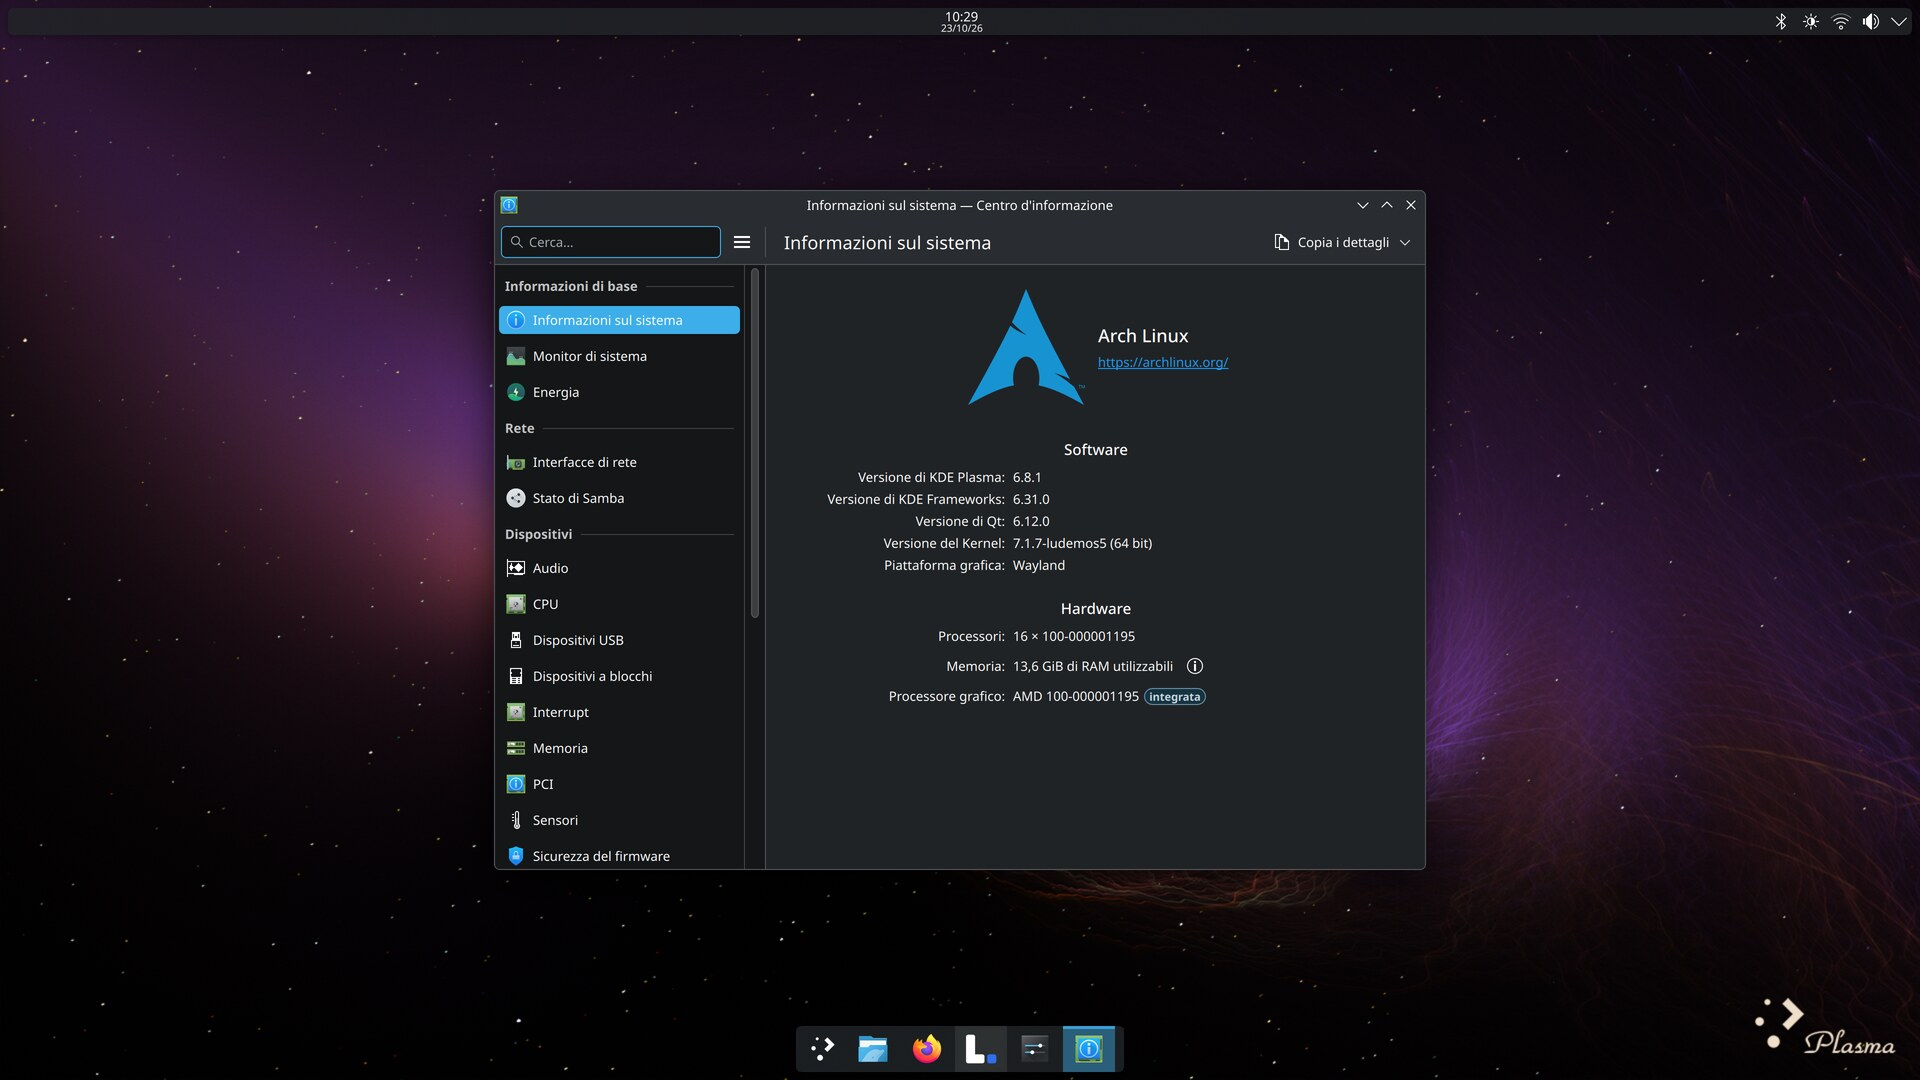
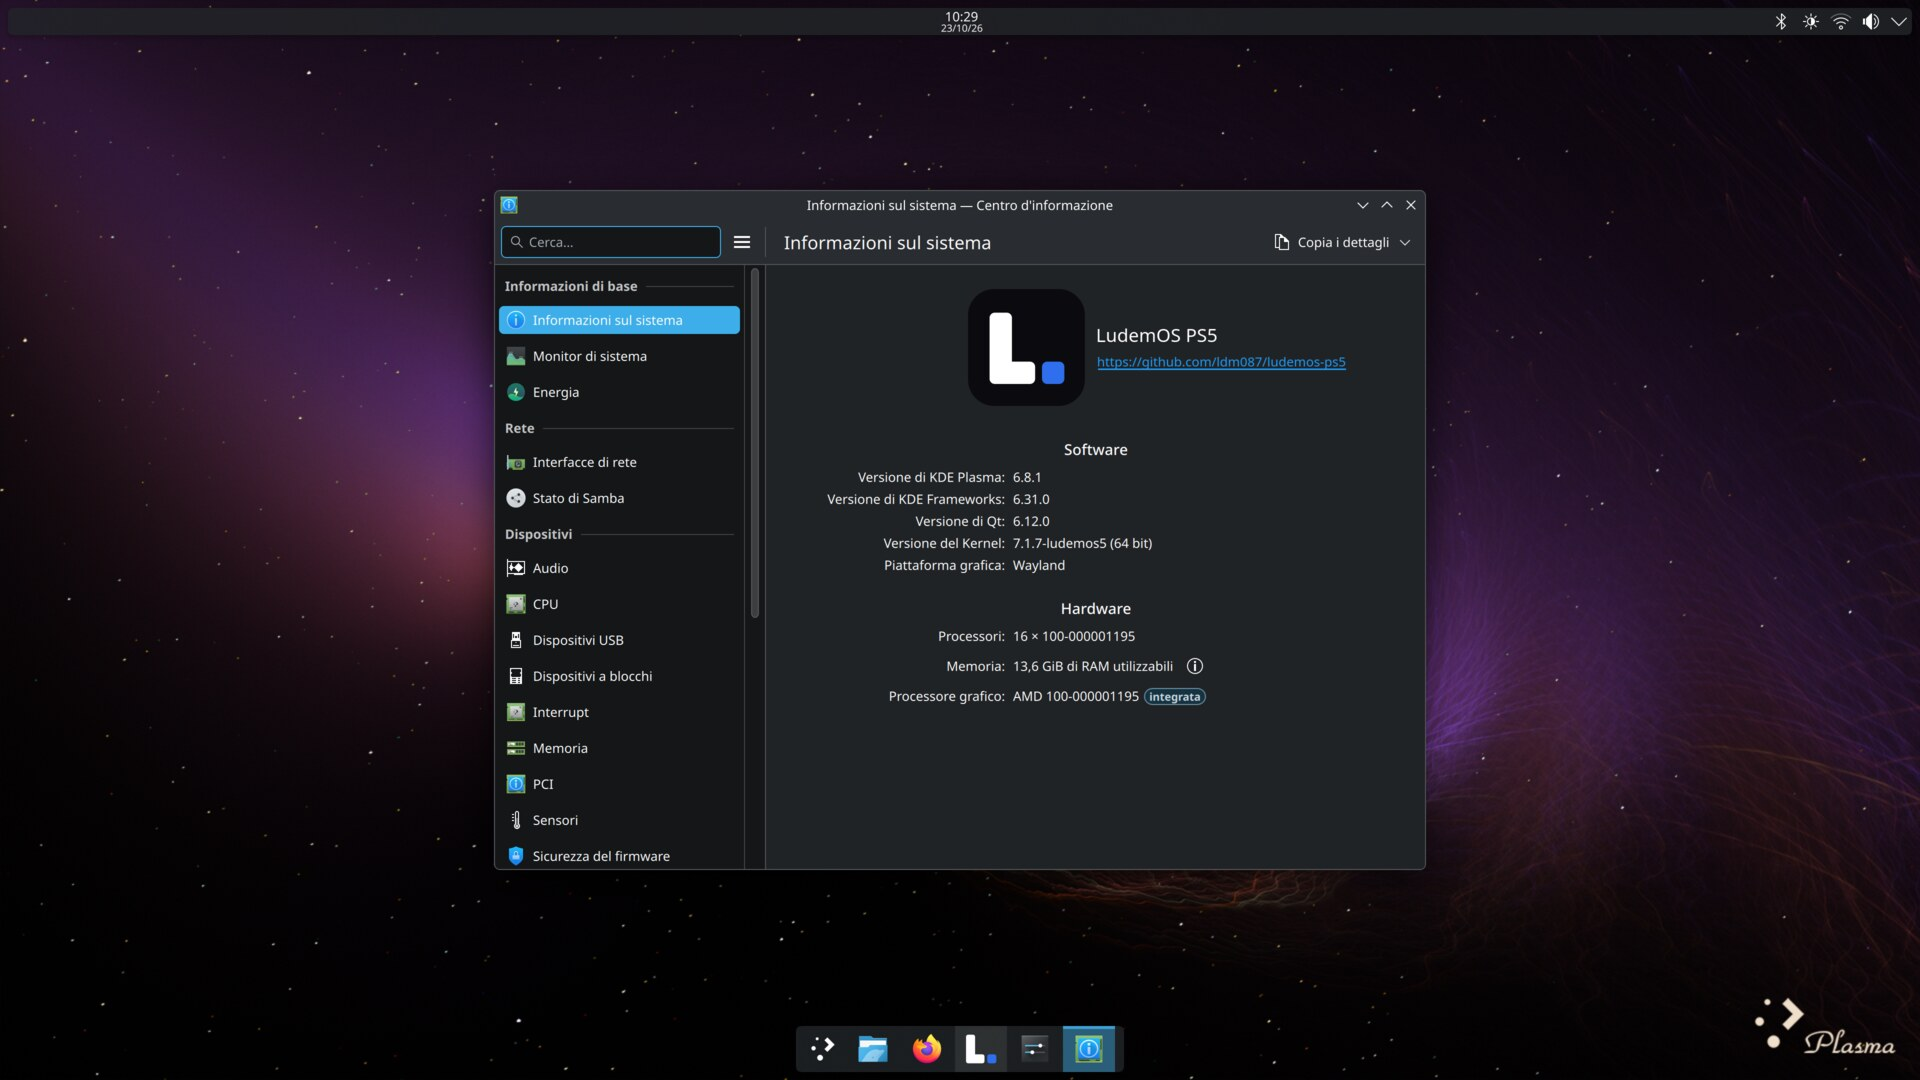
Informazioni sul sistema col nome LudemOS

Changed region(s): [[0.5, 0.2444, 0.6875, 0.3972]]

diff --git a/README.md b/README.md
@@ -192,7 +192,7 @@ ogni momento da Accensione → Desktop (il tasto PS riporta al launcher). Cattur
 <table>
   <tr>
     <td width="50%"><img src="docs/img/desktop-menu.jpg" alt="Menu delle applicazioni"><br><sub><b>Menu delle applicazioni</b>: Firefox, Dolphin, Discover, impostazioni di sistema.</sub></td>
-    <td width="50%"><img src="docs/img/desktop-info.jpg" alt="Informazioni sul sistema"><br><sub><b>Informazioni sul sistema</b>: Plasma 6.8.1, Qt 6.12, kernel 7.1.7-ludemos5, APU AMD della PS5 (16 thread), 13,6 GiB di RAM disponibili.</sub></td>
+    <td width="50%"><img src="docs/img/desktop-info.jpg" alt="Informazioni sul sistema"><br><sub><b>Informazioni sul sistema</b>: LudemOS PS5, Plasma 6.8.1, Qt 6.12, kernel 7.1.7-ludemos5, APU AMD della PS5 (16 thread), 13,6 GiB di RAM disponibili.</sub></td>
   </tr>
 </table>
 
